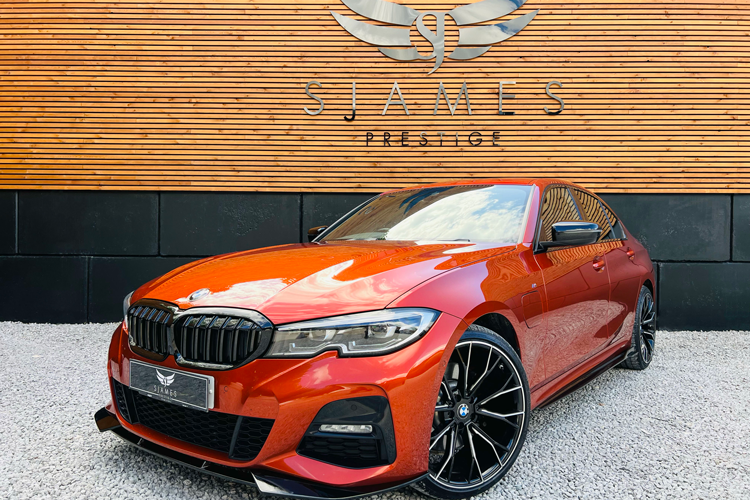
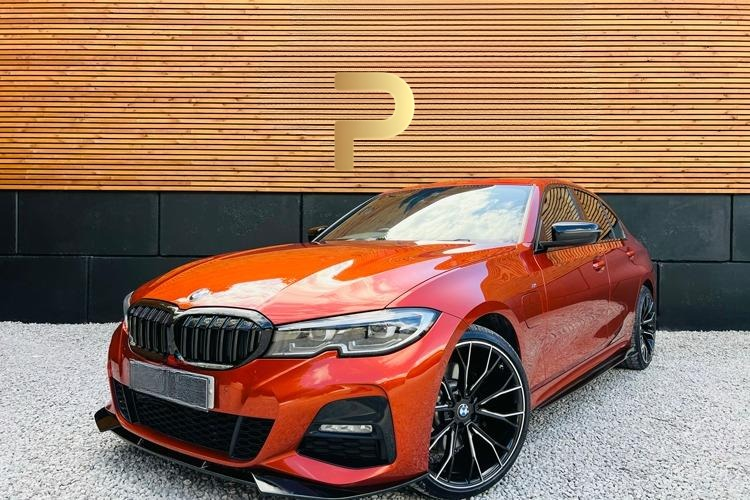
BAckground images changed

diff --git a/src/pages/TermsOfUse/TermsOfUse.jsx b/src/pages/TermsOfUse/TermsOfUse.jsx
@@ -122,7 +122,7 @@ const TermsOfUse = () => {
             We are a limited company registered in England and Wales under
             company number 08763622 and have our registered office at College Road Business Park
             Works, College Road Business Park, Aston Clinton, Aylesbury, Buckinghamshire HP22 5EZ. Our main
-            trading address is Rear Yard 2, College Road Business Park, Aston Clinton, Aylesbury,
+            trading address is Rear Yard 2, College Road Business Park, Aston Clinton Aylesbury,
             Buckinghamshire HP22 5EZ.
           </span>
         </p>

diff --git a/src/components/Footer/Footer.jsx b/src/components/Footer/Footer.jsx
@@ -219,7 +219,7 @@ const Footer = ({ noMargin = false }) => {
                   decline third party lenders. <br />
                   <br />
                   Registered in England &amp; Wales: 08763622 <br />
-                  Registered Office: Address: Rear Yard 2 College Road North Business Park, College Road North, Aylesbury, England, HP22 5EZ <br />
+                  Registered Office: Address: Rear Yard 2, College Road Business Park, Aston Clinton, Aylesbury, England, HP22 5EZ <br />
                    
                 </div>
               </div>

diff --git a/src/components/Navbar/Navbar.jsx b/src/components/Navbar/Navbar.jsx
@@ -278,7 +278,7 @@ const Navbar = () => {
                   <ul>
                     <li>
                       <a href="/contact">
-                        <i className="ci ci-map-marker-alt"></i> Rear Yard 2, Aston Clinton, Aylesbury, Buckinghamshire
+                        <i className="ci ci-map-marker-alt"></i> Rear Yard 2, College Road Business Park, Aston Clinton, Aylesbury, HP22 5EZ
                       </a>
                     </li>
                     <li className="mobile-hidden">
